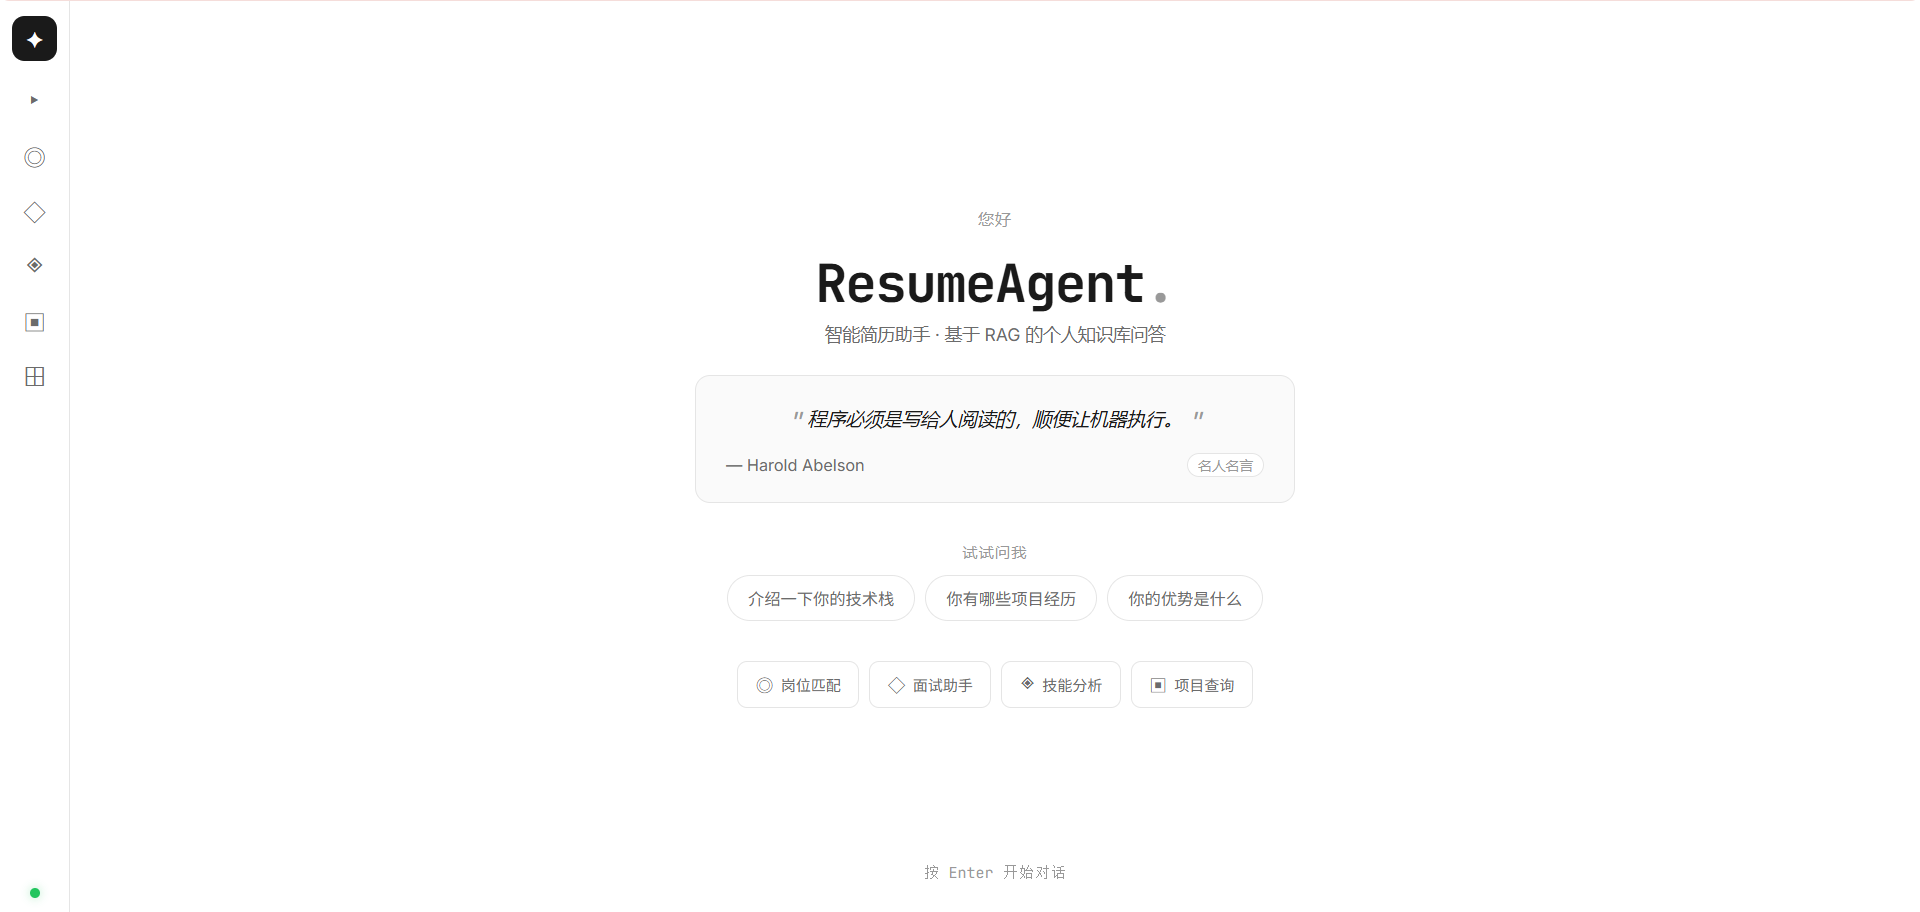
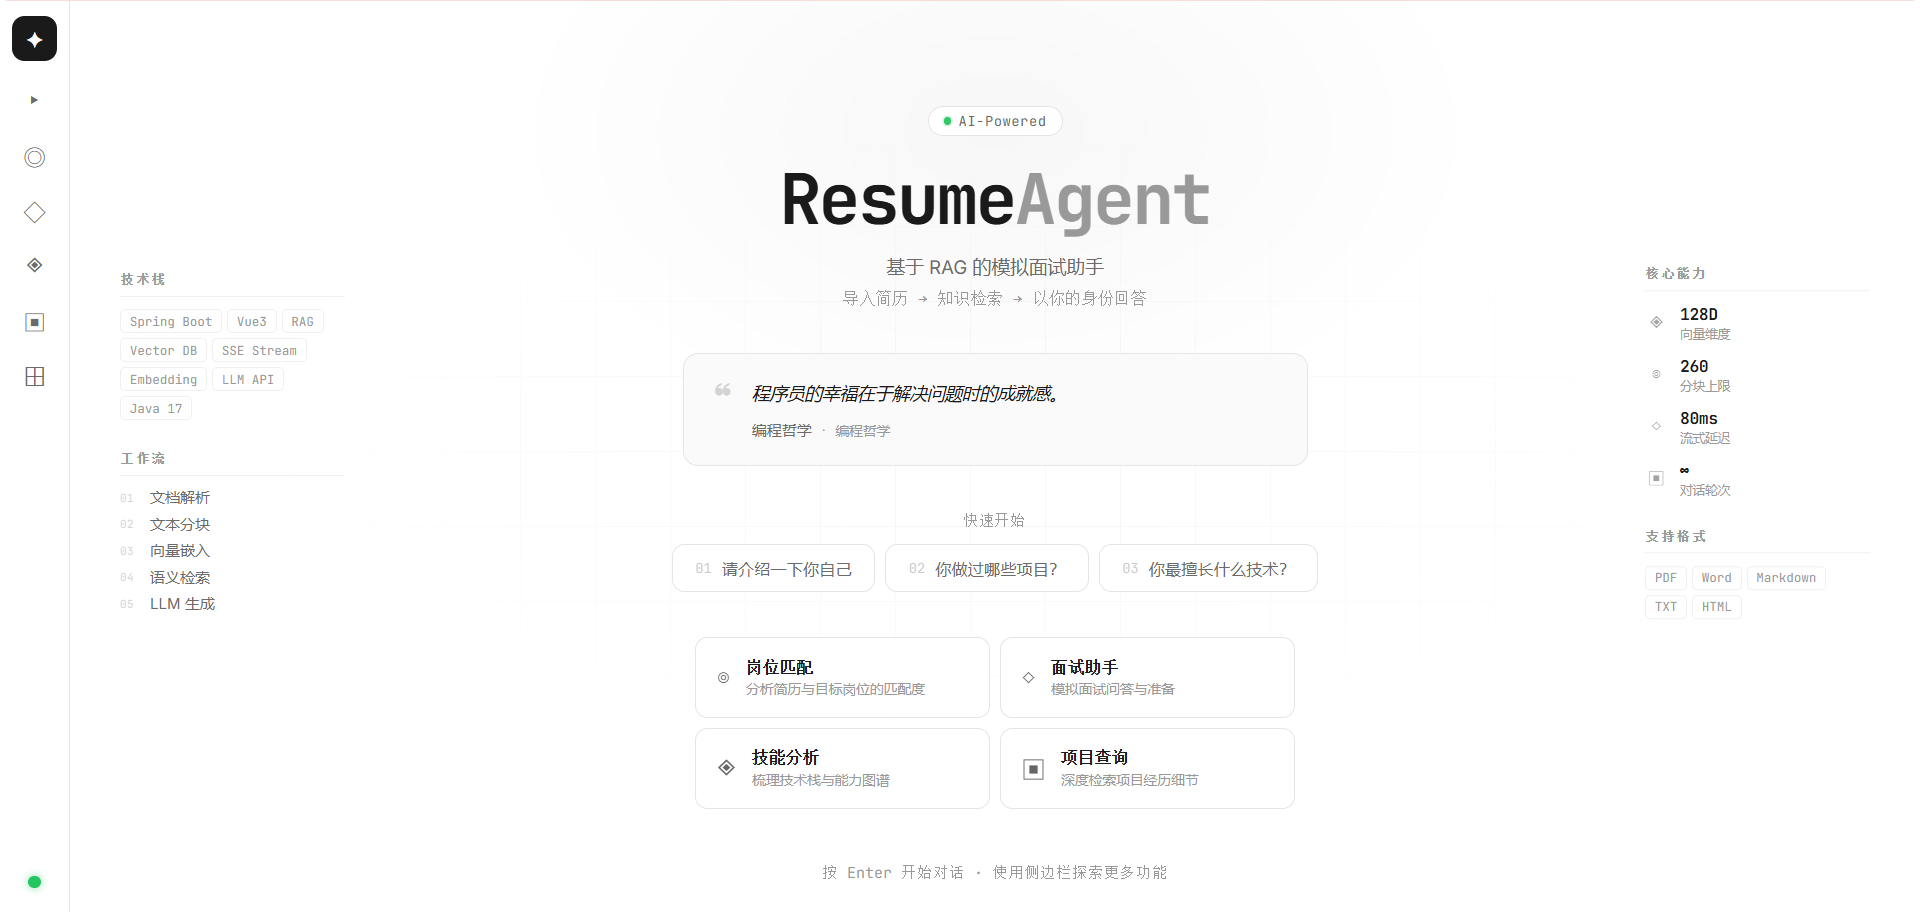
feat: 项目部署上线，更新README添加在线体验地址
- 部署至阿里云ECS，域名 mentalczh66.xyz
- Nginx反向代理 + HTTPS (Let's Encrypt)
- systemd后端进程管理
- LLM密钥改为环境变量注入，避免泄露
- 更新README添加在线体验入口和部署说明

diff --git a/frontend/src/types.ts b/frontend/src/types.ts
@@ -1,6 +1,7 @@
 export interface ChatRequest {
   conversationId: string
   message: string
+  mode?: 'rag' | 'llm'
 }
 
 export interface ChatResponse {

diff --git a/backend/src/main/java/com/resumeagent/controller/SystemController.java b/backend/src/main/java/com/resumeagent/controller/SystemController.java
@@ -1,0 +1,47 @@
+package com.resumeagent.controller;
+
+import com.resumeagent.config.ResumeAgentProperties;
+import com.resumeagent.service.LlmService;
+import java.util.LinkedHashMap;
+import java.util.Map;
+import org.springframework.web.bind.annotation.GetMapping;
+import org.springframework.web.bind.annotation.RequestMapping;
+import org.springframework.web.bind.annotation.RestController;
+
+@RestController
+@RequestMapping("/api/system")
+public class SystemController {
+
+    private final ResumeAgentProperties properties;
+    private final LlmService llmService;
+
+    public SystemController(ResumeAgentProperties properties, LlmService llmService) {
+        this.properties = properties;
+        this.llmService = llmService;
+    }
+
+    @GetMapping("/llm-config")
+    public Map<String, Object> llmConfig() {
+        Map<String, Object> config = new LinkedHashMap<>();
+        ResumeAgentProperties.OpenAi openai = properties.getOpenai();
+
+        String baseUrl = openai.getBaseUrl();
+        config.put("baseUrl", baseUrl != null && !baseUrl.isEmpty() ? baseUrl : "未配置");
+        config.put("model", openai.getChatModel());
+        config.put("temperature", openai.getTemperature());
+        config.put("maxTokens", openai.getMaxTokens());
+        config.put("llmAvailable", llmService.isAvailable());
+
+        // 掩码 api-key，只显示前 6 位和后 4 位
+        String apiKey = openai.getApiKey();
+        if (apiKey != null && apiKey.length() > 10) {
+            config.put("apiKey", apiKey.substring(0, 6) + "..." + apiKey.substring(apiKey.length() - 4));
+        } else if (apiKey != null && !apiKey.isEmpty()) {
+            config.put("apiKey", "***");
+        } else {
+            config.put("apiKey", "未配置");
+        }
+
+        return config;
+    }
+}

diff --git a/backend/src/main/java/com/resumeagent/controller/ChatController.java b/backend/src/main/java/com/resumeagent/controller/ChatController.java
@@ -35,8 +35,9 @@ public class ChatController {
 
     @GetMapping(value = "/stream", produces = MediaType.TEXT_EVENT_STREAM_VALUE)
     public SseEmitter stream(@RequestParam String message,
-                             @RequestParam(defaultValue = "default") String conversationId) {
-        return chatService.stream(new ChatRequest(conversationId, message));
+                             @RequestParam(defaultValue = "default") String conversationId,
+                             @RequestParam(defaultValue = "rag") String mode) {
+        return chatService.stream(new ChatRequest(conversationId, message, mode));
     }
 
     @GetMapping("/history")

diff --git a/backend/src/main/java/com/resumeagent/dto/ChatRequest.java b/backend/src/main/java/com/resumeagent/dto/ChatRequest.java
@@ -4,7 +4,13 @@ import jakarta.validation.constraints.NotBlank;
 
 public record ChatRequest(
         @NotBlank String conversationId,
-        @NotBlank String message
+        @NotBlank String message,
+        String mode
 ) {
+    public ChatRequest {
+        if (mode == null || mode.isBlank()) {
+            mode = "rag";
+        }
+    }
 }
 

diff --git a/backend/src/main/java/com/resumeagent/service/LlmService.java b/backend/src/main/java/com/resumeagent/service/LlmService.java
@@ -80,6 +80,10 @@ public class LlmService {
         }
     }
 
+    public boolean isAvailable() {
+        return isConfigured();
+    }
+
     private boolean isConfigured() {
         return notBlank(properties.getOpenai().getBaseUrl()) && notBlank(properties.getOpenai().getApiKey());
     }

diff --git a/README.md b/README.md
@@ -18,6 +18,8 @@
 <strong>模拟面试</strong> · <strong>RAG 知识库</strong> · <strong>岗位匹配</strong> · <strong>技能分析</strong> · <strong>面试助手</strong> · <strong>安全防护</strong>
 </p>
 
+🌐 **在线体验**：[https://mentalczh66.xyz](https://mentalczh66.xyz)
+
 </div>
 
 ---
@@ -505,14 +507,28 @@ OpenAI 兼容 API 客户端：
 <td valign="top" width="50%">
 
 **🚀 部署**
-- Docker 容器化
-- Nginx 反向代理
-- Ubuntu Server
+- Nginx 反向代理 + SSL
+- systemd 进程管理
+- 阿里云 ECS
 - 前后端分离架构
 
 </td>
 </tr>
 </table>
+
+---
+
+## 🌐 在线体验
+
+项目已部署上线，可直接访问体验：
+
+🔗 **[https://mentalczh66.xyz](https://mentalczh66.xyz)**
+
+**部署架构**：
+- 前端：Vue3 静态文件，由 Nginx 托管
+- 后端：Spring Boot 运行于服务器，通过 Nginx 反向代理
+- SSL：Let's Encrypt 免费证书，HTTPS 访问
+- 服务器：阿里云 ECS + Nginx + systemd
 
 ---
 
@@ -709,7 +725,12 @@ ResumeAgent/
   - 侧边栏绿点悬停弹出 LLM 配置详情卡片（模型、端点、密钥脱敏、温度、Token 上限）
   - 新增 `/api/system/llm-config` 接口，`LlmService.isAvailable()` 状态检测
   - 白色卡片设计风格与主页统一
-- [ ] **Phase 4** — 优化与部署
+- [x] **Phase 4** — 部署上线
+  - Nginx 反向代理 + HTTPS（Let's Encrypt）
+  - systemd 后端进程管理
+  - 前端静态文件托管
+  - 部署至阿里云 ECS，域名 mentalczh66.xyz
+- [ ] **Phase 5** — 优化与扩展
   - 替换 Milvus 向量数据库
   - 优化检索算法（重排序、多路召回）
   - 完善 Docker 部署
@@ -727,7 +748,7 @@ ResumeAgent/
 | 🛡 **安全优先** | Prompt Injection 检测 + PII 脱敏，Agent 安全设计 |
 | 📡 **流式体验** | SSE 逐字输出，打字机效果，实时感知生成过程 |
 | 🔌 **优雅降级** | LLM 未配置时自动回退到基于检索的模板回答，零成本验证流程 |
-| 🐳 **部署就绪** | Docker + Nginx 架构，前后端分离，一键部署 |
+| 🌐 **已部署上线** | Nginx + systemd 架构，HTTPS 访问，域名 mentalczh66.xyz |
 | 📋 **全链路审计** | 用户输入 → 检索 → 生成 → 输出，完整可追溯 |
 
 ---
@@ -736,7 +757,7 @@ ResumeAgent/
 
 > **ResumeAgent** — 基于 RAG 的模拟面试 AI 系统
 >
-> 基于 Spring Boot + Vue3 开发模拟面试 AI 系统，通过 RAG 技术构建个人知识库，AI 以候选人身份回答面试官问题。系统所有个人数据均从知识库动态检索（零硬编码），全程第一人称回答，支持向量检索、流式对话、岗位匹配分析、技能分析和面试回答生成，并针对 Agent 场景设计 Prompt Injection 防护机制，完成 Docker 化部署。
+> 基于 Spring Boot + Vue3 开发模拟面试 AI 系统，通过 RAG 技术构建个人知识库，AI 以候选人身份回答面试官问题。系统所有个人数据均从知识库动态检索（零硬编码），全程第一人称回答，支持向量检索、流式对话、岗位匹配分析、技能分析和面试回答生成，并针对 Agent 场景设计 Prompt Injection 防护机制。已部署上线（Nginx + HTTPS），可在线体验。
 
 ---
 
